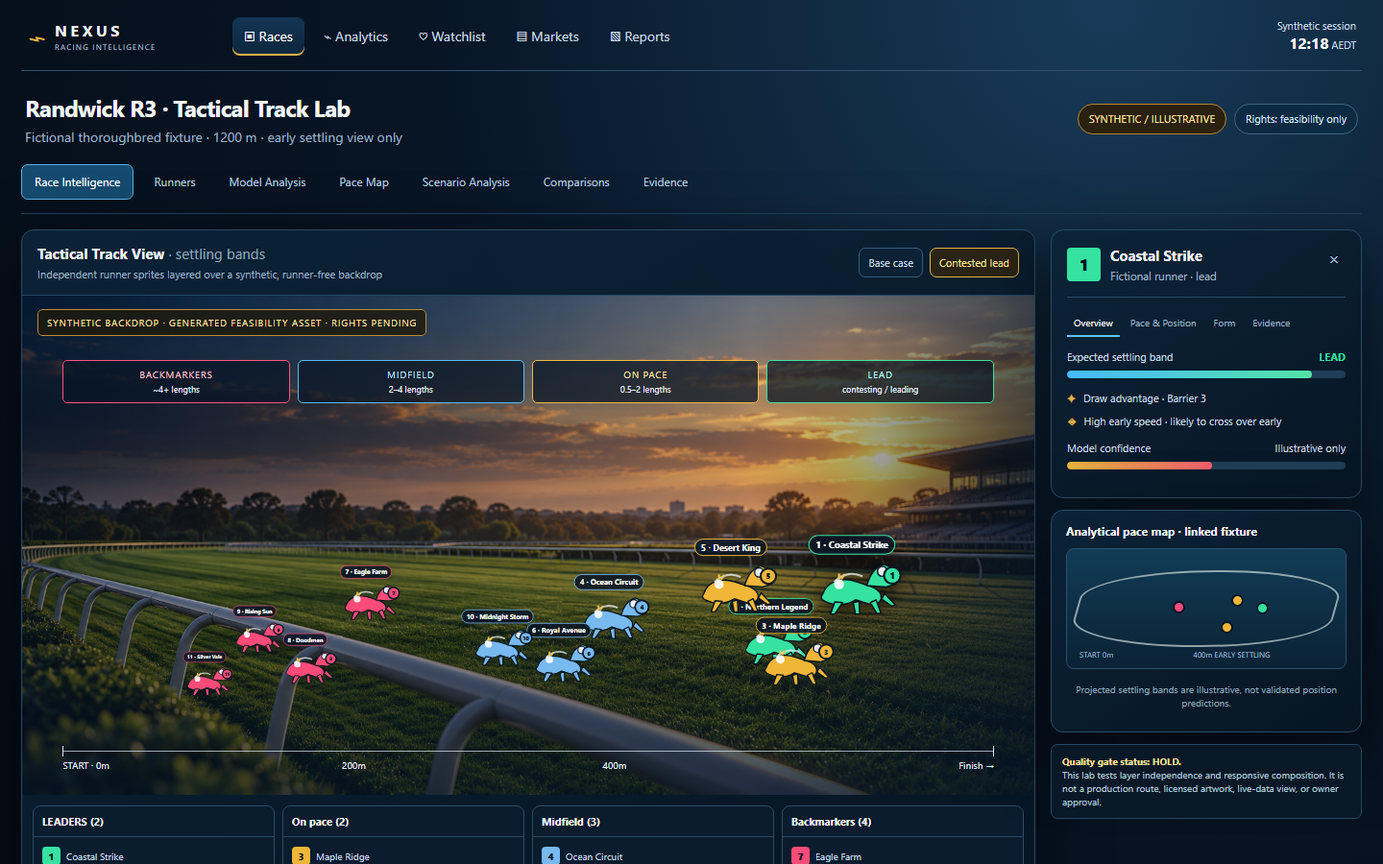
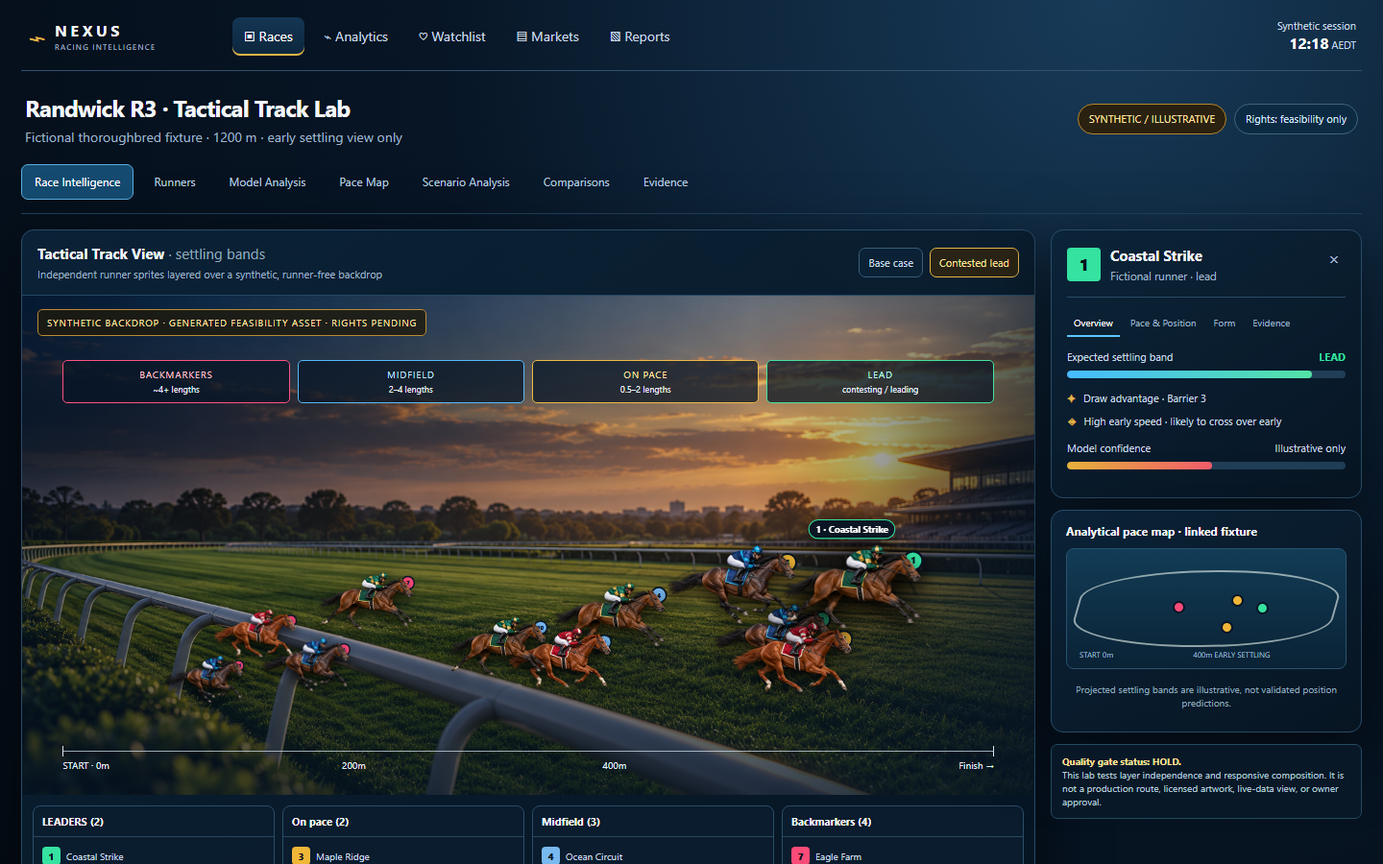
feat: upgrade Tactical Track runner realism

Changed region(s): [[0.125, 0.5911, 0.6875, 0.8089]]

diff --git a/apps/web/public/tactical-track-lab.html b/apps/web/public/tactical-track-lab.html
@@ -7,10 +7,16 @@
     <title>Tactical Track Lab · Synthetic Feasibility Proof</title>
     <style>
       :root{color-scheme:dark;--navy:#071525;--panel:#0b2034e8;--panel2:#102d46d9;--line:#345774;--muted:#9fb4c9;--text:#f4f7fb;--gold:#e3b647;--cyan:#5fc4ff;--green:#54e3a4;--red:#ff557f;--shadow:0 22px 70px #0009}
-      *{box-sizing:border-box}body{margin:0;min-width:320px;background:radial-gradient(circle at 80% 0,#183b59 0,#071525 45%,#040b13 100%);font:14px/1.4 Inter,Segoe UI,system-ui,sans-serif;color:var(--text)}button{font:inherit;color:inherit;cursor:pointer}button:focus-visible{outline:2px solid var(--gold);outline-offset:3px}.app{max-width:1540px;margin:auto;padding:18px 22px 30px}.topbar{display:flex;align-items:center;gap:26px;border-bottom:1px solid #34516d;padding:0 6px 15px}.brand{display:flex;align-items:center;gap:10px;min-width:188px}.brand-mark{color:var(--gold);font-size:31px;line-height:1;transform:rotate(-18deg)}.brand strong{letter-spacing:.23em;font-size:16px}.brand small{display:block;color:#a9bed1;letter-spacing:.16em;font-size:8px}.nav{display:flex;gap:8px;flex:1}.nav button{border:0;background:transparent;color:#c8d8e9;padding:10px 12px;border-radius:8px}.nav button.active{color:white;background:linear-gradient(#143654,#0c263d);box-shadow:inset 0 -2px var(--gold)}.clock{text-align:right;color:#c5d8e9;font-size:11px}.clock b{color:white;font-size:16px}.status{display:flex;justify-content:space-between;align-items:center;gap:12px;padding:22px 4px 18px}.status h1{font-size:24px;margin:0 0 4px;letter-spacing:-.03em}.status p{margin:0;color:var(--muted)}.status-right{display:flex;gap:8px;align-items:center;flex-wrap:wrap;justify-content:flex-end}.badge{border:1px solid #41657f;background:#0c2b43;border-radius:999px;padding:7px 11px;color:#d5e7f7;font-size:11px}.badge.synthetic{border-color:#b8862d;color:#ffe0a0;background:#2a2110}.subnav{display:flex;align-items:center;gap:7px;overflow:auto;padding:0 0 14px;border-bottom:1px solid #1f405c}.subnav button{white-space:nowrap;background:transparent;border:1px solid transparent;border-radius:7px;padding:9px 13px;color:#b9cde0;font-size:12px}.subnav button.active{background:#154b70;border-color:#5baee0;color:white}.layout{display:grid;grid-template-columns:minmax(0,1fr) 324px;gap:16px;margin-top:16px}.panel{border:1px solid #284c68;background:linear-gradient(145deg,#0b2338ef,#071522ed);box-shadow:var(--shadow);border-radius:13px}.track-panel{overflow:hidden}.panel-head{display:flex;justify-content:space-between;align-items:center;padding:14px 16px;border-bottom:1px solid #244861}.panel-head h2,.panel-head h3{font-size:15px;margin:0}.panel-head p{margin:3px 0 0;color:var(--muted);font-size:11px}.controls{display:flex;gap:7px;align-items:center}.scenario{border:1px solid #3a5d78;background:#0b2135;border-radius:7px;padding:7px 9px;color:#cadbea;font-size:11px}.scenario.active{border-color:var(--gold);color:#ffe19b;background:#2a2416}.track{position:relative;isolation:isolate;min-height:520px;overflow:hidden;background-image:linear-gradient(180deg,#06162614 0%,#07152520 40%,#071525c9 100%),url('/tactical-track-lab-backdrop.png');background-size:cover;background-position:center 48%}.track:after{content:'';position:absolute;inset:0;background:linear-gradient(90deg,#0715255e 0%,transparent 18%,transparent 72%,#071525b0 100%);pointer-events:none;z-index:-1}.synthetic-stamp{position:absolute;top:14px;left:16px;color:#ffe0a0;background:#1f1a0dcc;border:1px solid #b98b35;border-radius:5px;padding:6px 9px;font-size:10px;letter-spacing:.08em;text-transform:uppercase;z-index:4}.axis{position:absolute;left:4%;right:4%;bottom:45px;height:1px;background:#d8e8f5b3;z-index:2}.axis span{position:absolute;top:8px;color:#e3edf6;font-size:10px;white-space:nowrap}.axis span:nth-child(1){left:0}.axis span:nth-child(2){left:30%}.axis span:nth-child(3){left:58%}.axis span:nth-child(4){right:0}.axis:before,.axis:after{content:'';position:absolute;top:-5px;height:11px;width:1px;background:#d8e8f5}.axis:before{left:0}.axis:after{right:0}.lane-tags{position:absolute;top:67px;left:4%;right:4%;display:grid;grid-template-columns:repeat(4,1fr);gap:8px;z-index:3}.lane{padding:7px 9px;border:1px solid;border-radius:5px;text-align:center;background:#071525b8;text-transform:uppercase;font-size:10px;letter-spacing:.08em}.lane small{display:block;font-size:9px;text-transform:none;letter-spacing:0;margin-top:2px;color:#e5edf7}.lane.back{border-color:#ff5281;color:#ffc0d0}.lane.mid{border-color:#55bbf8;color:#bdeaff}.lane.pace{border-color:#edbc46;color:#ffe4a0}.lane.lead{border-color:#43e2a0;color:#b8ffe2}.runner{position:absolute;z-index:5;width:96px;transform:translate(-50%,-50%);transition:left .55s cubic-bezier(.2,.8,.2,1),top .55s cubic-bezier(.2,.8,.2,1),transform .55s}.runner:hover,.runner.selected{z-index:8;filter:drop-shadow(0 5px 10px #000b)}.runner.selected{transform:translate(-50%,-50%) scale(1.12)}.runner svg{display:block;width:100%;height:auto;overflow:visible}.runner-label{position:absolute;left:50%;top:-18px;transform:translateX(-50%);background:#081525dd;border:1px solid var(--runner-color);color:white;border-radius:999px;padding:2px 6px;font-size:9px;white-space:nowrap;font-weight:700}.runner .runner-dot{position:absolute;right:2px;top:14px;width:14px;height:14px;border-radius:50%;background:var(--runner-color);box-shadow:0 0 0 2px #071525;color:#071525;font-size:8px;font-weight:800;text-align:center;line-height:14px}.group-grid{display:grid;grid-template-columns:repeat(4,1fr);gap:8px;padding:11px}.group{border:1px solid #2a4d68;border-radius:8px;background:#0a1d2fd9;overflow:hidden}.group h3{font-size:11px;margin:0;padding:8px 9px;border-bottom:1px solid #294960}.group ul{list-style:none;padding:5px 9px;margin:0}.group li{display:flex;gap:6px;align-items:center;padding:5px 0;color:#c7d8e8;font-size:10px}.num{width:19px;height:19px;display:inline-grid;place-items:center;border-radius:4px;background:var(--c);color:#06111b;font-weight:800}.side{display:flex;flex-direction:column;gap:12px}.detail{padding:16px}.detail-top{display:flex;justify-content:space-between;align-items:flex-start;border-bottom:1px solid #2a4c66;padding-bottom:13px}.runner-id{display:flex;gap:10px;align-items:center}.runner-id .num{width:35px;height:35px;font-size:17px}.runner-id b{display:block;font-size:15px}.runner-id small{color:var(--muted)}.close{background:transparent;border:0;color:#a6bed1;font-size:18px}.lead-value{font-size:25px;color:var(--gold);font-weight:700}.tabs{display:flex;gap:4px;margin:13px 0}.tabs button{border:0;background:transparent;color:#9db5ca;padding:6px 7px;font-size:10px;border-bottom:2px solid transparent}.tabs button.active{color:white;border-color:var(--cyan)}.metric{margin:13px 0}.metric label{display:flex;justify-content:space-between;color:#c7d9e8;font-size:11px}.bar{height:8px;background:#203e57;border-radius:9px;overflow:hidden;margin-top:6px}.bar i{display:block;height:100%;background:linear-gradient(90deg,#47bbff,#53e2a6);border-radius:inherit}.factor{display:flex;gap:8px;align-items:flex-start;margin:9px 0;color:#c7d9e8;font-size:11px}.factor strong{color:var(--gold)}.map-panel{padding:13px 15px}.map-panel h3{font-size:12px;margin:0 0 9px}.pace-map{height:126px;border:1px solid #2a536f;border-radius:8px;position:relative;overflow:hidden;background:linear-gradient(180deg,#123c56,#0a2235)}.pace-map:before{content:'';position:absolute;inset:22px 10px;border:2px solid #dbe8e4a6;border-radius:50% 48% 48% 50% / 37% 37% 37% 37%;transform:skewX(-16deg)}.pace-map:after{content:'START 0m                                      400m EARLY SETTLING';white-space:pre;position:absolute;left:13px;right:13px;bottom:8px;color:#9db8ca;font-size:8px}.map-dot{position:absolute;width:13px;height:13px;border-radius:50%;background:var(--c);border:2px solid #071525;z-index:2}.map-dot.one{left:68%;top:45%}.map-dot.three{left:59%;top:38%}.map-dot.five{left:55%;top:61%}.map-dot.seven{left:38%;top:44%}.notice{font-size:10px;color:#b3c8d8;padding:10px 11px;border-radius:7px;background:#081827;border:1px solid #244960}.notice b{color:#ffe09a}.footer-note{margin-top:14px;text-align:center;color:#8fa9bc;font-size:10px}.mobile-only{display:none}
-      @media(max-width:1080px){.app{padding:15px}.topbar{gap:10px}.nav button{padding:9px 7px}.layout{grid-template-columns:minmax(0,1fr) 285px}.track{min-height:480px}.runner{width:78px}}
+      *{box-sizing:border-box}body{margin:0;min-width:320px;background:radial-gradient(circle at 80% 0,#183b59 0,#071525 45%,#040b13 100%);font:14px/1.4 Inter,Segoe UI,system-ui,sans-serif;color:var(--text)}button{font:inherit;color:inherit;cursor:pointer}button:focus-visible{outline:2px solid var(--gold);outline-offset:3px}.app{max-width:1540px;margin:auto;padding:18px 22px 30px}.topbar{display:flex;align-items:center;gap:26px;border-bottom:1px solid #34516d;padding:0 6px 15px}.brand{display:flex;align-items:center;gap:10px;min-width:188px}.brand-mark{color:var(--gold);font-size:31px;line-height:1;transform:rotate(-18deg)}.brand strong{letter-spacing:.23em;font-size:16px}.brand small{display:block;color:#a9bed1;letter-spacing:.16em;font-size:8px}.nav{display:flex;gap:8px;flex:1}.nav button{border:0;background:transparent;color:#c8d8e9;padding:10px 12px;border-radius:8px}.nav button.active{color:white;background:linear-gradient(#143654,#0c263d);box-shadow:inset 0 -2px var(--gold)}.clock{text-align:right;color:#c5d8e9;font-size:11px}.clock b{color:white;font-size:16px}.status{display:flex;justify-content:space-between;align-items:center;gap:12px;padding:22px 4px 18px}.status h1{font-size:24px;margin:0 0 4px;letter-spacing:-.03em}.status p{margin:0;color:var(--muted)}.status-right{display:flex;gap:8px;align-items:center;flex-wrap:wrap;justify-content:flex-end}.badge{border:1px solid #41657f;background:#0c2b43;border-radius:999px;padding:7px 11px;color:#d5e7f7;font-size:11px}.badge.synthetic{border-color:#b8862d;color:#ffe0a0;background:#2a2110}.subnav{display:flex;align-items:center;gap:7px;overflow:auto;padding:0 0 14px;border-bottom:1px solid #1f405c}.subnav button{white-space:nowrap;background:transparent;border:1px solid transparent;border-radius:7px;padding:9px 13px;color:#b9cde0;font-size:12px}.subnav button.active{background:#154b70;border-color:#5baee0;color:white}.layout{display:grid;grid-template-columns:minmax(0,1fr) 324px;gap:16px;margin-top:16px}.panel{border:1px solid #284c68;background:linear-gradient(145deg,#0b2338ef,#071522ed);box-shadow:var(--shadow);border-radius:13px}.track-panel{overflow:hidden}.panel-head{display:flex;justify-content:space-between;align-items:center;padding:14px 16px;border-bottom:1px solid #244861}.panel-head h2,.panel-head h3{font-size:15px;margin:0}.panel-head p{margin:3px 0 0;color:var(--muted);font-size:11px}.controls{display:flex;gap:7px;align-items:center}.scenario{border:1px solid #3a5d78;background:#0b2135;border-radius:7px;padding:7px 9px;color:#cadbea;font-size:11px}.scenario.active{border-color:var(--gold);color:#ffe19b;background:#2a2416}.track{position:relative;isolation:isolate;min-height:520px;overflow:hidden;background-image:linear-gradient(180deg,#06162614 0%,#07152520 40%,#071525c9 100%),url('/tactical-track-lab-backdrop.png');background-size:cover;background-position:center 48%}.track:after{content:'';position:absolute;inset:0;background:linear-gradient(90deg,#0715255e 0%,transparent 18%,transparent 72%,#071525b0 100%);pointer-events:none;z-index:-1}.synthetic-stamp{position:absolute;top:14px;left:16px;color:#ffe0a0;background:#1f1a0dcc;border:1px solid #b98b35;border-radius:5px;padding:6px 9px;font-size:10px;letter-spacing:.08em;text-transform:uppercase;z-index:4}.axis{position:absolute;left:4%;right:4%;bottom:45px;height:1px;background:#d8e8f5b3;z-index:2}.axis span{position:absolute;top:8px;color:#e3edf6;font-size:10px;white-space:nowrap}.axis span:nth-child(1){left:0}.axis span:nth-child(2){left:30%}.axis span:nth-child(3){left:58%}.axis span:nth-child(4){right:0}.axis:before,.axis:after{content:'';position:absolute;top:-5px;height:11px;width:1px;background:#d8e8f5}.axis:before{left:0}.axis:after{right:0}.lane-tags{position:absolute;top:67px;left:4%;right:4%;display:grid;grid-template-columns:repeat(4,1fr);gap:8px;z-index:3}.lane{padding:7px 9px;border:1px solid;border-radius:5px;text-align:center;background:#071525b8;text-transform:uppercase;font-size:10px;letter-spacing:.08em}.lane small{display:block;font-size:9px;text-transform:none;letter-spacing:0;margin-top:2px;color:#e5edf7}.lane.back{border-color:#ff5281;color:#ffc0d0}.lane.mid{border-color:#55bbf8;color:#bdeaff}.lane.pace{border-color:#edbc46;color:#ffe4a0}.lane.lead{border-color:#43e2a0;color:#b8ffe2}.runner{position:absolute;z-index:5;width:138px;transform:translate(-50%,-50%);transition:left .55s cubic-bezier(.2,.8,.2,1),top .55s cubic-bezier(.2,.8,.2,1),transform .55s}.runner:hover,.runner.selected{z-index:8;filter:drop-shadow(0 8px 12px #000d)}.runner.selected{transform:translate(-50%,-50%) scale(1.08)}.runner img{display:block;width:100%;height:auto;filter:drop-shadow(0 7px 8px #000b);user-select:none}.runner-label{position:absolute;left:50%;top:-11px;transform:translateX(-50%);background:#081525ed;border:1px solid var(--runner-color);color:white;border-radius:999px;padding:2px 6px;font-size:9px;white-space:nowrap;font-weight:700;z-index:2}.runner-label{position:absolute;left:50%;top:-18px;transform:translateX(-50%);background:#081525dd;border:1px solid var(--runner-color);color:white;border-radius:999px;padding:2px 6px;font-size:9px;white-space:nowrap;font-weight:700}.runner .runner-dot{position:absolute;right:2px;top:14px;width:14px;height:14px;border-radius:50%;background:var(--runner-color);box-shadow:0 0 0 2px #071525;color:#071525;font-size:8px;font-weight:800;text-align:center;line-height:14px}.group-grid{display:grid;grid-template-columns:repeat(4,1fr);gap:8px;padding:11px}.group{border:1px solid #2a4d68;border-radius:8px;background:#0a1d2fd9;overflow:hidden}.group h3{font-size:11px;margin:0;padding:8px 9px;border-bottom:1px solid #294960}.group ul{list-style:none;padding:5px 9px;margin:0}.group li{display:flex;gap:6px;align-items:center;padding:5px 0;color:#c7d8e8;font-size:10px}.num{width:19px;height:19px;display:inline-grid;place-items:center;border-radius:4px;background:var(--c);color:#06111b;font-weight:800}.side{display:flex;flex-direction:column;gap:12px}.detail{padding:16px}.detail-top{display:flex;justify-content:space-between;align-items:flex-start;border-bottom:1px solid #2a4c66;padding-bottom:13px}.runner-id{display:flex;gap:10px;align-items:center}.runner-id .num{width:35px;height:35px;font-size:17px}.runner-id b{display:block;font-size:15px}.runner-id small{color:var(--muted)}.close{background:transparent;border:0;color:#a6bed1;font-size:18px}.lead-value{font-size:25px;color:var(--gold);font-weight:700}.tabs{display:flex;gap:4px;margin:13px 0}.tabs button{border:0;background:transparent;color:#9db5ca;padding:6px 7px;font-size:10px;border-bottom:2px solid transparent}.tabs button.active{color:white;border-color:var(--cyan)}.metric{margin:13px 0}.metric label{display:flex;justify-content:space-between;color:#c7d9e8;font-size:11px}.bar{height:8px;background:#203e57;border-radius:9px;overflow:hidden;margin-top:6px}.bar i{display:block;height:100%;background:linear-gradient(90deg,#47bbff,#53e2a6);border-radius:inherit}.factor{display:flex;gap:8px;align-items:flex-start;margin:9px 0;color:#c7d9e8;font-size:11px}.factor strong{color:var(--gold)}.map-panel{padding:13px 15px}.map-panel h3{font-size:12px;margin:0 0 9px}.pace-map{height:126px;border:1px solid #2a536f;border-radius:8px;position:relative;overflow:hidden;background:linear-gradient(180deg,#123c56,#0a2235)}.pace-map:before{content:'';position:absolute;inset:22px 10px;border:2px solid #dbe8e4a6;border-radius:50% 48% 48% 50% / 37% 37% 37% 37%;transform:skewX(-16deg)}.pace-map:after{content:'START 0m                                      400m EARLY SETTLING';white-space:pre;position:absolute;left:13px;right:13px;bottom:8px;color:#9db8ca;font-size:8px}.map-dot{position:absolute;width:13px;height:13px;border-radius:50%;background:var(--c);border:2px solid #071525;z-index:2}.map-dot.one{left:68%;top:45%}.map-dot.three{left:59%;top:38%}.map-dot.five{left:55%;top:61%}.map-dot.seven{left:38%;top:44%}.notice{font-size:10px;color:#b3c8d8;padding:10px 11px;border-radius:7px;background:#081827;border:1px solid #244960}.notice b{color:#ffe09a}.footer-note{margin-top:14px;text-align:center;color:#8fa9bc;font-size:10px}.mobile-only{display:none}
+      @media(max-width:1080px){.app{padding:15px}.topbar{gap:10px}.nav button{padding:9px 7px}.layout{grid-template-columns:minmax(0,1fr) 285px}.track{min-height:480px}.runner{width:112px}}
       @media(max-width:820px){.topbar{flex-wrap:wrap}.nav{order:3;flex-basis:100%;overflow:auto}.clock{margin-left:auto}.status{align-items:flex-start;flex-direction:column}.status-right{justify-content:flex-start}.layout{display:block}.side{margin-top:12px;display:grid;grid-template-columns:1fr 1fr}.detail{grid-column:span 2}.track{min-height:490px}.group-grid{grid-template-columns:repeat(2,1fr)}}
-      @media(max-width:520px){.app{padding:10px}.topbar{padding-bottom:10px}.brand{min-width:150px}.brand strong{font-size:13px}.nav button{font-size:11px;padding:8px 9px}.status{padding:14px 2px}.status h1{font-size:20px}.subnav{margin-inline:-10px;padding-inline:10px}.panel-head{align-items:flex-start;gap:10px;flex-direction:column}.controls{width:100%}.controls .scenario{flex:1}.track{min-height:470px;background-position:center}.synthetic-stamp{font-size:8px;max-width:210px}.lane-tags{top:64px;gap:3px}.lane{padding:5px 2px;font-size:8px}.lane small{font-size:8px}.runner{width:56px}.runner-label{font-size:7px;top:-14px}.runner .runner-dot{width:11px;height:11px;line-height:11px;font-size:7px;right:-2px;top:7px}.axis{bottom:38px}.axis span{font-size:8px}.group-grid{grid-template-columns:1fr 1fr;padding:7px;gap:6px}.group h3{font-size:9px;padding:7px}.group li{font-size:9px}.side{display:block}.detail{padding:13px}.map-panel{margin-top:12px}.footer-note{line-height:1.5}.mobile-only{display:inline}}
+      @media(max-width:520px){.app{padding:10px}.topbar{padding-bottom:10px}.brand{min-width:150px}.brand strong{font-size:13px}.nav button{font-size:11px;padding:8px 9px}.status{padding:14px 2px}.status h1{font-size:20px}.subnav{margin-inline:-10px;padding-inline:10px}.panel-head{align-items:flex-start;gap:10px;flex-direction:column}.controls{width:100%}.controls .scenario{flex:1}.track{min-height:470px;background-position:center}.synthetic-stamp{font-size:8px;max-width:210px}.lane-tags{top:64px;gap:3px}.lane{padding:5px 2px;font-size:8px}.lane small{font-size:8px}.runner{width:88px}.runner-label{font-size:7px;top:-14px}.runner .runner-dot{width:11px;height:11px;line-height:11px;font-size:7px;right:-2px;top:7px}.axis{bottom:38px}.axis span{font-size:8px}.group-grid{grid-template-columns:1fr 1fr;padding:7px;gap:6px}.group h3{font-size:9px;padding:7px}.group li{font-size:9px}.side{display:block}.detail{padding:13px}.map-panel{margin-top:12px}.footer-note{line-height:1.5}.mobile-only{display:inline}}
+    </style>
+    <style>
+      .runner-label{top:-18px;background:#081525ed;opacity:0;pointer-events:none;transition:opacity .2s}
+      .runner:hover .runner-label,.runner.selected .runner-label{opacity:1}
+      .runner .runner-dot{width:16px;height:16px;line-height:16px}
+      @media(max-width:520px){.runner-label{top:-14px;font-size:7px}.runner .runner-dot{width:12px;height:12px;line-height:12px}}
     </style>
   </head>
   <body>
@@ -54,7 +60,7 @@
       const contested={1:[82,58,1.08],2:[74,69,.9],3:[76,73,.93],5:[70,58,1],4:[58,64,.88],6:[53,73,.8],10:[47,70,.76],7:[34,61,.74],8:[28,74,.68],9:[23,68,.64],11:[18,77,.6]};
       let scenario='base',selected=1;
       const stage=document.querySelector('#trackStage'), groups=document.querySelector('#groups'), detail=document.querySelector('#detail');
-      function horse(r){return `<div class="runner-label">${r.n} · ${r.name}</div><span class="runner-dot">${r.n}</span><svg viewBox="0 0 140 90" role="img" aria-label="Independently positioned synthetic runner ${r.n} ${r.name}"><g fill="${r.color}" stroke="#06131e" stroke-width="2" stroke-linejoin="round"><path d="M29 57c6-18 26-25 49-17l21 7c8 3 14 10 12 17-2 7-11 9-20 6l-16-5c-12 8-29 9-43 2-5-2-7-6-3-10z"/><path d="M91 45c4-15 12-26 24-30l10 4-5 11 11 5c3 2 3 6 0 8l-13 4z"/><path d="M46 68l-6 17h6l11-16zM72 69l3 16h6l-1-18zM96 69l9 15h6l-7-19zM112 64l14 10 5-2-15-16z"/></g><circle cx="113" cy="25" r="7" fill="#e9edf1" stroke="#0b1b29" stroke-width="2"/><path d="M45 40c12-13 28-14 40-8" stroke="#dbe7ef" stroke-width="3" fill="none" opacity=".8"/><circle cx="52" cy="43" r="7" fill="#fff" opacity=".9"/><path d="M52 36v-8M55 36l5-7" stroke="#f3c24f" stroke-width="3"/></svg>`}
+      function horse(r){const spriteBySilk={emerald:"/tactical-track-runners/emerald-gold.png",navy:"/tactical-track-runners/navy-cyan.png",crimson:"/tactical-track-runners/crimson-ivory.png"};const silk=r.n%3===1?"emerald":r.n%3===2?"navy":"crimson";return `<div class="runner-label">${r.n} · ${r.name}</div><span class="runner-dot">${r.n}</span><img src="${spriteBySilk[silk]}" alt="" draggable="false" />`}
       function render(){const positions=scenario==='base'?base:contested;stage.querySelectorAll('.runner').forEach(el=>el.remove());runners.forEach(r=>{const el=document.createElement('div');el.className='runner'+(r.n===selected?' selected':'');el.dataset.n=r.n;el.style.cssText=`--runner-color:${r.color};left:${positions[r.n][0]}%;top:${positions[r.n][1]}%;transform:translate(-50%,-50%) scale(${positions[r.n][2]})`;el.innerHTML=horse(r);el.addEventListener('click',()=>{selected=r.n;render()});stage.appendChild(el)});renderGroups();renderDetail()}
       function renderGroups(){const order=['LEAD','ON PACE','MIDFIELD','BACKMARKERS'];groups.innerHTML=order.map(g=>`<section class="group"><h3>${g==='LEAD'?'LEADERS':g[0]+g.slice(1).toLowerCase()} (${runners.filter(r=>r.group===g).length})</h3><ul>${runners.filter(r=>r.group===g).map(r=>`<li><span class="num" style="--c:${r.color}">${r.n}</span><span>${r.name}</span></li>`).join('')}</ul></section>`).join('')}
       function renderDetail(){const r=runners.find(x=>x.n===selected);detail.innerHTML=`<div class="detail-top"><div class="runner-id"><span class="num" style="--c:${r.color}">${r.n}</span><div><b>${r.name}</b><small>Fictional runner · ${r.group.toLowerCase()}</small></div></div><button class="close" aria-label="Selected runner">×</button></div><div class="tabs"><button class="active">Overview</button><button>Pace & Position</button><button>Form</button><button>Evidence</button></div><div class="metric"><label><span>Expected settling band</span><strong style="color:${r.color}">${r.group}</strong></label><div class="bar"><i style="width:${r.group==='LEAD'?88:r.group==='ON PACE'?69:r.group==='MIDFIELD'?46:22}%"></i></div></div><div class="factor"><strong>✦</strong><span>${r.factor}</span></div><div class="factor"><strong>◈</strong><span>${r.detail}</span></div><div class="metric"><label><span>Model confidence</span><span>Illustrative only</span></label><div class="bar"><i style="width:52%;background:linear-gradient(90deg,#e8b33c,#f35e6c)"></i></div></div>`}

diff --git a/docs/design-rescue/TACTICAL_TRACK_LAB_REVIEW.md b/docs/design-rescue/TACTICAL_TRACK_LAB_REVIEW.md
@@ -1,19 +1,21 @@
 # Tactical Track Feasibility Lab Review
 
-**Status:** HOLD
+**Status:** VISUAL CANDIDATE ADVANCED · PRODUCTION HOLD
 **Scope:** Tactical Track only; no approval for the remaining 13 workspaces.
 **Draft PR:** https://github.com/birko21/R-AI-cing_Nexus/pull/177
 **Lab URL:** `http://127.0.0.1:5173/tactical-track-lab.html`
 
 ## Candidate delivered
 
-The lab is a standalone public HTML entry, not a production route. It uses one synthetic fixture with eleven independently positioned SVG runner layers over a runner-free generated turf backdrop. The same fixture supports:
+The lab is a standalone public HTML entry, not a production route. It uses one synthetic fixture with eleven independently positioned transparent horse-and-jockey image layers over a runner-free generated turf backdrop. The same fixture supports:
 
 - Base case and Contested lead scenarios;
 - visible inside rail, start/finish axis, 0–400 m early-settling framing, and two- to three-abreast groups;
 - selected-runner detail, evidence caveat, and linked analytical pace-map treatment;
 - responsive desktop, tablet, and mobile layouts;
 - explicit synthetic/illustrative and rights-pending labels.
+
+The runner field was iterated after the first review: the geometric SVG treatment was removed, photorealistic synthetic horse-and-jockey layers were added, and dense name pills were reduced to a selected-runner label plus numbered identity markers. Full runner names remain in the linked groups and detail panel so the track remains readable at mobile width.
 
[1 lines of base64/hex data omitted]
 
@@ -23,18 +25,18 @@ All screenshots are real Chromium captures at DPR 1. Mobile captures scroll the 
 
 | Scenario | Viewport | Screenshot | SHA-256 |
 | --- | ---: | --- | --- |
[12 lines of base64/hex data omitted]
 
 ## Validation
 
 - `pnpm --filter @racing-intelligence/web build` — PASS.
 - Playwright interaction check — PASS: 11 runners present; Base → Contested lead changes runner position styles.
-- Playwright load measurement — PASS: 1,057 ms in the measured local run.
+- Playwright load measurement — PASS: 1,577 ms in the measured local run.
 - `@axe-core/playwright` — PASS: 0 violations after landmark correction.
 - V7 handoff pack validator — PASS before lab work.
 
@@ -42,8 +44,8 @@ All screenshots are real Chromium captures at DPR 1. Mobile captures scroll the 
 
 What is retained: cinematic turf depth, strong horizon/rail perspective, navy/gold HUD language, early-settling axis, grouped bands, selected-runner detail, analytical map, and prominent information caveats.
 
-What is below V7: the SVG runner sprites are simplified geometric feasibility shapes rather than realistic independently placeable horse/jockey assets; labels become dense at mobile width; no GPU/3D challenger was produced; and the backdrop is generated feasibility art with rights pending. The current lab therefore does not meet the V7 “match or exceed” quality bar for production.
+What remains gated: the backdrop and runner layers are generated feasibility assets with rights pending, and no human reviewer or owner has approved their use. The current candidate is materially above the superseded geometric treatment, but it is still a synthetic Phase 0 proof rather than licensed production artwork. GPU/3D work is not required for this layered feasibility test and remains out of scope until asset rights and reviewer direction are resolved.
 
 ## Decision
 
-**HOLD for Tactical Track implementation.** The layer and responsive mechanics are feasible, but this candidate must not advance to production or sign-off. Next work requires owner-approved/licensed cinematic assets, substantially more realistic code-specific runner assets, a practical 3D/GPU comparison where useful, and genuine independent reviewer plus owner decisions. No deployment, provider activation, Auth0 change, wagering capability, or The Long Straight edit was performed.
+**Production HOLD remains.** The current visual candidate is suitable for continued Phase 0 review and no longer uses the rejected geometric runner treatment. It must not advance to production or sign-off until the synthetic assets are replaced or cleared, and genuine independent reviewer plus owner decisions are recorded. No deployment, provider activation, Auth0 change, wagering capability, or The Long Straight edit was performed.

diff --git a/docs/design-rescue/PHASE0_STATUS.md b/docs/design-rescue/PHASE0_STATUS.md
@@ -13,7 +13,7 @@
 | Full V7 handoff validation | COMPLETE | `validate_pack.py` passed: 38 hashed sources, 5 epics, 27 tickets, valid dependencies, V7 golden set, three-code fixture, and importer dry run. |
 | E12-E16 / NXD-001-NXD-027 import | COMPLETE | 32 canonical issues are open; URLs are listed below. |
 | Design baseline documentation PR | COMPLETE / DRAFT | Draft PR #177 contains documentation and reference-manifest changes only. |
-| Tactical Track renderer feasibility | HOLD | Standalone lab captured six browser screenshots; candidate is below V7 realism and has unresolved asset rights. |
+| Tactical Track renderer feasibility | IN PROGRESS / PRODUCTION HOLD | Standalone lab now uses realistic independently placeable synthetic horse-and-jockey layers; six refreshed browser screenshots pass the automated visual/interaction checks, while asset rights and human approval remain unresolved. |
 | Human visual review / owner approval | NOT STARTED | No automated result is treated as artistic approval. |
 
 ## Protected handoff material
@@ -73,9 +73,10 @@ The first importer process continued after a tool timeout, while a second invoca
 - Lab review: `docs/design-rescue/TACTICAL_TRACK_LAB_REVIEW.md`
 - Standalone entry: `apps/web/public/tactical-track-lab.html`
 - Synthetic backdrop: `apps/web/public/tactical-track-lab-backdrop.png` (rights pending; not production-approved)
+- Synthetic runner layers: `apps/web/public/tactical-track-runners/` (generated feasibility assets; rights pending; not production-approved)
 - Screenshots: `docs/design-rescue/evidence/tactical-track/`
-- Recommendation: **HOLD** for Tactical Track implementation.
+- Recommendation: **Continue Phase 0 review; production HOLD** until rights clearance and genuine human decisions.
 
 ## Next checkpoint
 
-Stop for owner and independent review. Do not rebuild the full application, merge the draft PR, deploy, activate providers, change Auth0, enable wagering/trading, or modify The Long Straight until the Tactical Track HOLD is resolved through a new evidence package and genuine human decisions.
+Continue the Tactical Track evidence loop with the refreshed candidate. Do not rebuild the full application, merge the draft PR, deploy, activate providers, change Auth0, enable wagering/trading, or modify The Long Straight. Production remains held until the synthetic assets are replaced or rights-cleared and genuine independent reviewer plus owner decisions are recorded.
